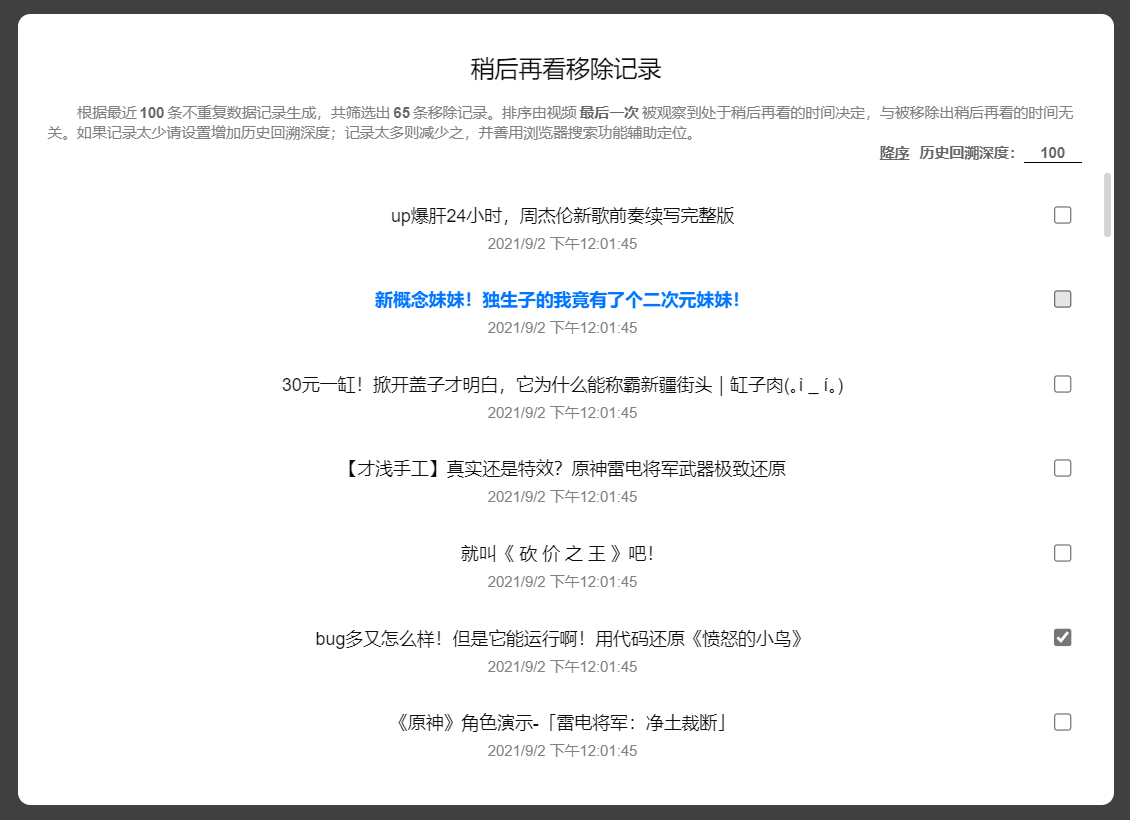
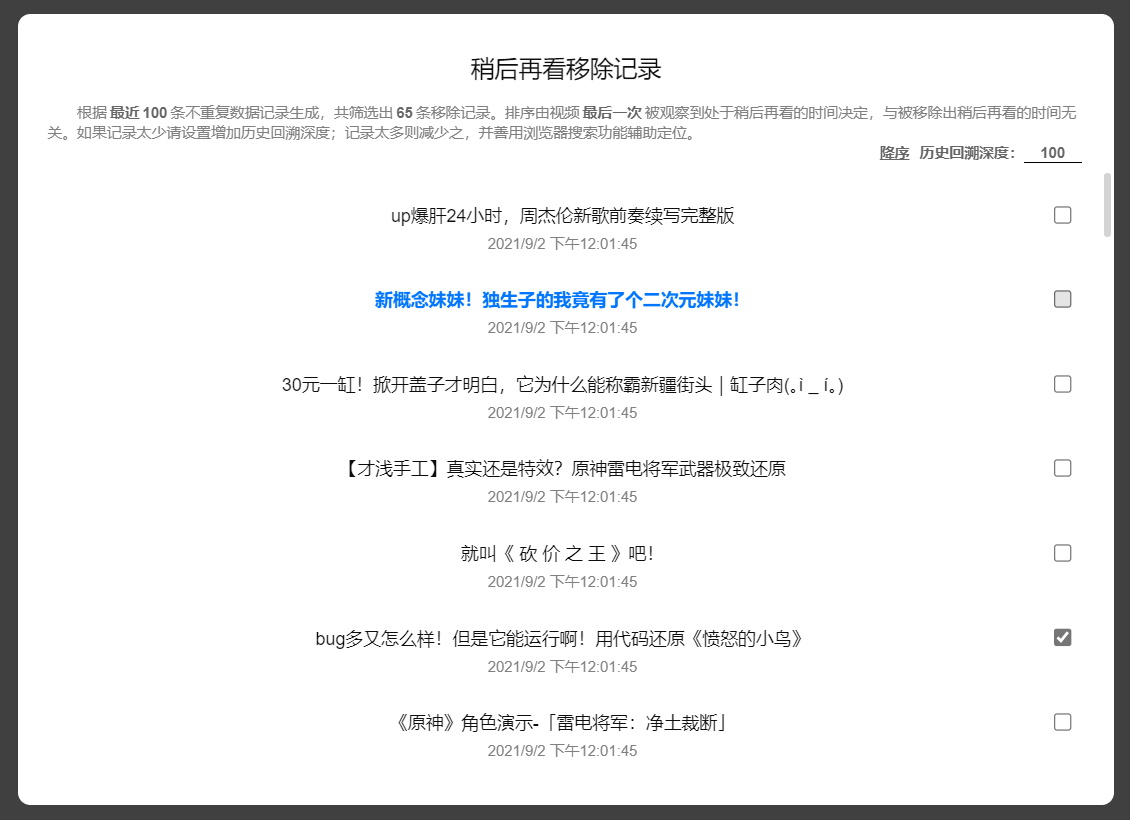
B站稍后再看功能增强 4.23.5.20210930
* 移除记录：优化排序提示说明，并修复一处描述文本错误。

Changed region(s): [[0.0929, 0.122, 0.9602, 0.1524]]

diff --git a/script/BilibiliWatchlaterPlus/BilibiliWatchlaterPlus.user.js b/script/BilibiliWatchlaterPlus/BilibiliWatchlaterPlus.user.js
@@ -1,6 +1,6 @@
 // ==UserScript==
 // @name            B站稍后再看功能增强
-// @version         4.23.4.20210928
+// @version         4.23.5.20210930
 // @namespace       laster2800
 // @author          Laster2800
 // @description     与稍后再看功能相关，一切你能想到和想不到的功能
@@ -2073,12 +2073,12 @@
       /** @type {{[n: string]: HTMLElement}} */
       const el = {}
       if (gm.el.history) {
-        el.searchTimes = gm.el.history.querySelector('#gm-search-times')
+        el.searchTimes = gm.el.history.querySelector('#gm-history-search-times')
         el.searchTimes.value = gm.config.removeHistorySearchTimes
         el.searchTimes.current = el.searchTimes.value
-        el.historySort = gm.el.history.querySelector('#gm-history-sort')
-        if (el.historySort.type !== 0) {
-          el.historySort.setType(0) // 降序
+        el.sort = gm.el.history.querySelector('#gm-history-sort')
+        if (el.sort.type !== 0) {
+          el.sort.type = 0 // 降序
         }
         this.openPanelItem('history')
       } else {
@@ -2099,10 +2099,10 @@
             <div class="gm-history-page gm-modal">
               <div class="gm-title">稍后再看移除记录</div>
               <div class="gm-comment">
-                <div>根据最近<span id="gm-save-times">0</span>条不重复数据记录生成，共筛选出<span id="gm-removed-num">0</span>条移除记录。排序由视频<span id="gm-history-time-point"></span>被观察到处于稍后再看的时间决定，与被移除出稍后再看的时间无关。如果记录太少请设置增加历史回溯深度；记录太多则减少之，并善用浏览器搜索功能辅助定位。</div>
+                <div>根据<span id="gm-history-new-or-old" style="padding-right:0"></span><span id="gm-history-save-times">0</span>条不重复数据记录生成，共筛选出<span id="gm-history-removed-num">0</span>条移除记录。排序由视频<span id="gm-history-time-point"></span>被观察到处于稍后再看的时间决定，与被移除出稍后再看的时间无关。如果记录太少请设置增加历史回溯深度；记录太多则减少之，并善用浏览器搜索功能辅助定位。</div>
                 <div style="text-align:right;font-weight:bold">
-                  <span id="gm-history-sort" style="text-decoration:underline;cursor:pointer">降序</span>
-                  <span title="搜寻时在最近保存的多少条稍后再看历史数据记录中查找。按下回车键或输入框失去焦点时刷新数据，设置较小的值能较好地定位最近被添加到稍后再看的视频。">历史回溯深度：<input is="laster2800-input-number" id="gm-search-times" value="${gm.config.removeHistorySearchTimes}" min="${gm.configMap.removeHistorySearchTimes.min}" max="${gm.configMap.removeHistorySearchTimes.max}"></span>
+                  <span id="gm-history-sort" style="text-decoration:underline;cursor:pointer"></span>
+                  <span title="搜寻时在最近/最早保存的多少条稍后再看历史数据记录中查找。按下回车键或输入框失去焦点时刷新数据。">历史回溯深度：<input is="laster2800-input-number" id="gm-history-search-times" value="${gm.config.removeHistorySearchTimes}" min="${gm.configMap.removeHistorySearchTimes.min}" max="${gm.configMap.removeHistorySearchTimes.max}"></span>
                 </div>
               </div>
               <div class="gm-content"></div>
@@ -2112,10 +2112,12 @@
           el.historyPage = gm.el.history.querySelector('.gm-history-page')
           el.comment = gm.el.history.querySelector('.gm-comment')
           el.content = gm.el.history.querySelector('.gm-content')
+          el.sort = gm.el.history.querySelector('#gm-history-sort')
           el.timePoint = gm.el.history.querySelector('#gm-history-time-point')
-          el.saveTimes = gm.el.history.querySelector('#gm-save-times')
-          el.removedNum = gm.el.history.querySelector('#gm-removed-num')
-          el.searchTimes = gm.el.history.querySelector('#gm-search-times')
+          el.saveTimes = gm.el.history.querySelector('#gm-history-save-times')
+          el.removedNum = gm.el.history.querySelector('#gm-history-removed-num')
+          el.searchTimes = gm.el.history.querySelector('#gm-history-search-times')
+          el.newOrOld = gm.el.history.querySelector('#gm-history-new-or-old')
           el.shadow = gm.el.history.querySelector('.gm-shadow')
         }
 
@@ -2157,19 +2159,25 @@
           })
 
           // 排序方式
-          el.historySort = gm.el.history.querySelector('#gm-history-sort')
-          el.historySort.type = 0
-          el.historySort.typeText = ['降序', '升序', '完全升序']
-          el.historySort.title = '点击切换升序'
-          el.historySort.setType = type => {
-            const target = el.historySort
-            target.type = type
-            target.textContent = target.typeText[type]
-            target.title = `点击切换${target.typeText[(type + 1) % target.typeText.length]}`
-          }
-          el.historySort.addEventListener('click', () => {
-            const target = el.historySort
-            target.setType((target.type + 1) % target.typeText.length)
+          const typeText = ['降序', '升序', '完全升序']
+          const typeDesc = [
+            '降序回溯历史，降序显示结果',
+            '降序回溯历史，升序显示结果',
+            '升序回溯历史，升序显示结果',
+          ]
+          Reflect.defineProperty(el.sort, 'type', {
+            get: function() { return Number.parseInt(this.dataset.type) },
+            set: function(val) {
+              this.dataset.type = val
+              this.textContent = typeText[val]
+              this.title = typeDesc[val]
+              el.newOrOld.textContent = val < 2 ? '最近' : '最早'
+            },
+          })
+          el.sort.type = 0
+          el.sort.addEventListener('click', () => {
+            const target = el.sort
+            target.type = (target.type + 1) % typeText.length
             gm.panel.history.openHandler()
           })
 
@@ -2189,7 +2197,7 @@
             const map = await webpage.method.getWatchlaterDataMap(item => item.bvid, 'bvid', true)
             const depth = Number.parseInt(el.searchTimes.value)
             let data = null
-            if (el.historySort.type < 2) {
+            if (el.sort.type < 2) {
               data = gm.data.removeHistoryData().toArray(depth)
             } else {
               const rhd = gm.data.removeHistoryData()
@@ -2208,7 +2216,7 @@
               if (history.length > 1) {
                 // ES2019 后 Array#sort() 为稳定排序
                 history.sort((a, b) => (b[2] ?? 0) - (a[2] ?? 0))
-                if (el.historySort.type >= 1) {
+                if (el.sort.type >= 1) {
                   history.reverse()
                 }
               }
@@ -2222,7 +2230,7 @@
                 `)
               }
             } else {
-              if (history.length > 1 && el.historySort.type >= 1) {
+              if (history.length > 1 && el.sort.type >= 1) {
                 history.reverse()
               }
               for (const rm of history) {

diff --git a/script/BilibiliWatchlaterPlus/changelog.md b/script/BilibiliWatchlaterPlus/changelog.md
@@ -14,12 +14,13 @@
 8. 脚本：面板项回调函数以参数而非 `this` 回传菜单对象。
 9. 移除记录：修复「数据保存最小时间间隔」总是使用默认值的问题。
 10. 移除记录：优化稍后再看历史数据保存流程。
-11. 外部：`UserscriptAPI` 更新至 V2.2。详见 [UserscriptAPI 更新日志](https://gitee.com/liangjiancang/userscript/blob/master/lib/UserscriptAPI/changelog.md)。
-12. 外部：`UserscriptAPIDom` 更新至 V1.2，`UserscriptAPILogger` 更新至 V1.2，`UserscriptAPIMessage` 更新至 V1.2。
-13. 外部：`UserscriptAPIBase` 更新至 V1.2，提供更为完善的 `urlchange` 事件。
-14. 外部：`UserscriptAPIWait` 更新至 V1.2，优化错误处理流程。
-15. 外部：`UserscriptAPIWeb` 更新至 V1.2，优化错误处理流程。
-16. 外部：`PushQueue` 独立成库（V1.0）。
+11. 移除记录：优化说明及提示文本。
+12. 外部：`UserscriptAPI` 更新至 V2.2。详见 [UserscriptAPI 更新日志](https://gitee.com/liangjiancang/userscript/blob/master/lib/UserscriptAPI/changelog.md)。
+13. 外部：`UserscriptAPIDom` 更新至 V1.2，`UserscriptAPILogger` 更新至 V1.2，`UserscriptAPIMessage` 更新至 V1.2。
+14. 外部：`UserscriptAPIBase` 更新至 V1.2，提供更为完善的 `urlchange` 事件。
+15. 外部：`UserscriptAPIWait` 更新至 V1.2，优化错误处理流程。
+16. 外部：`UserscriptAPIWeb` 更新至 V1.2，优化错误处理流程。
+17. 外部：`PushQueue` 独立成库（V1.0）。
 
 > ESLint 确实是个好东西，把规则全开一下子就暴露出 N 个潜在的问题——但反过来也可以说完全没有用，因为这一大堆所有的潜在问题其实几乎没有造成实际上的问题。
 
